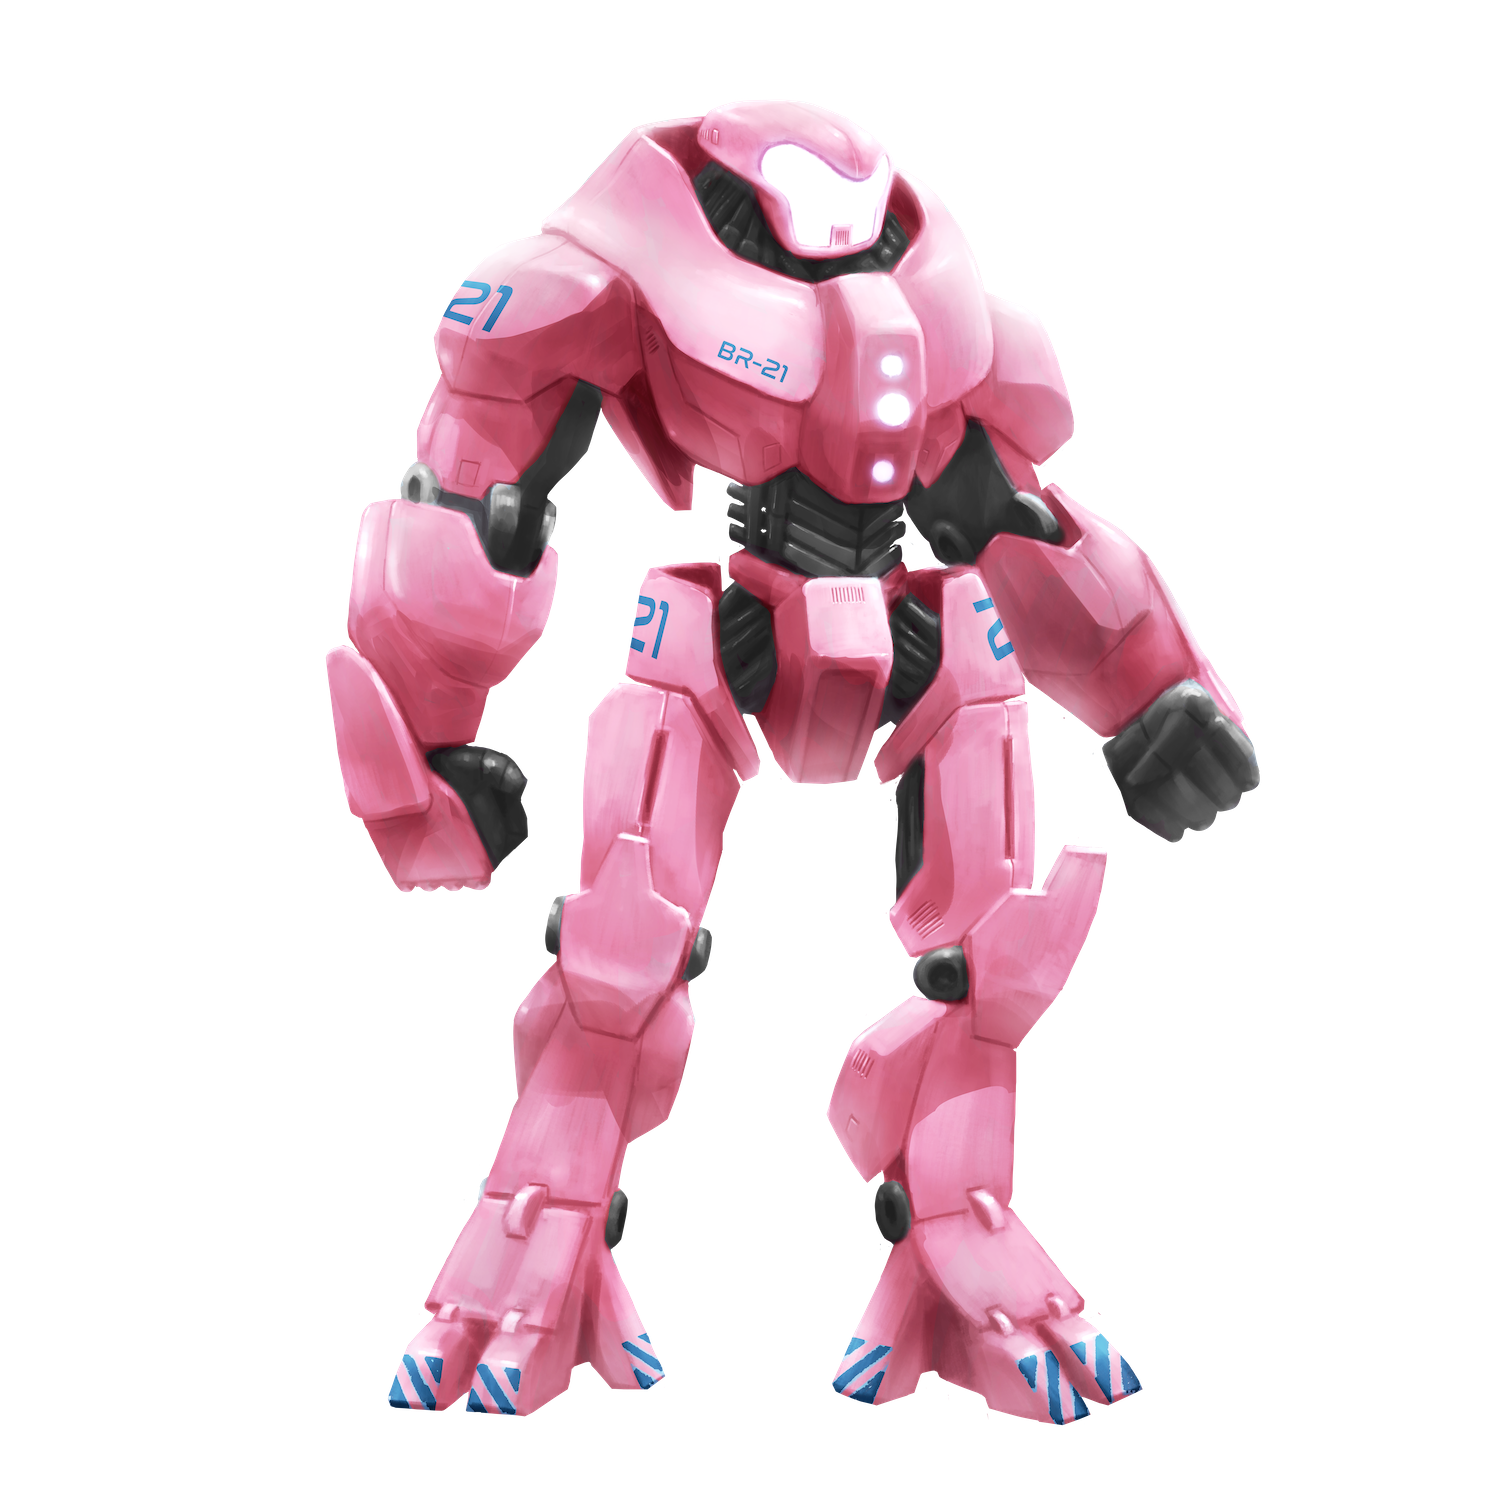
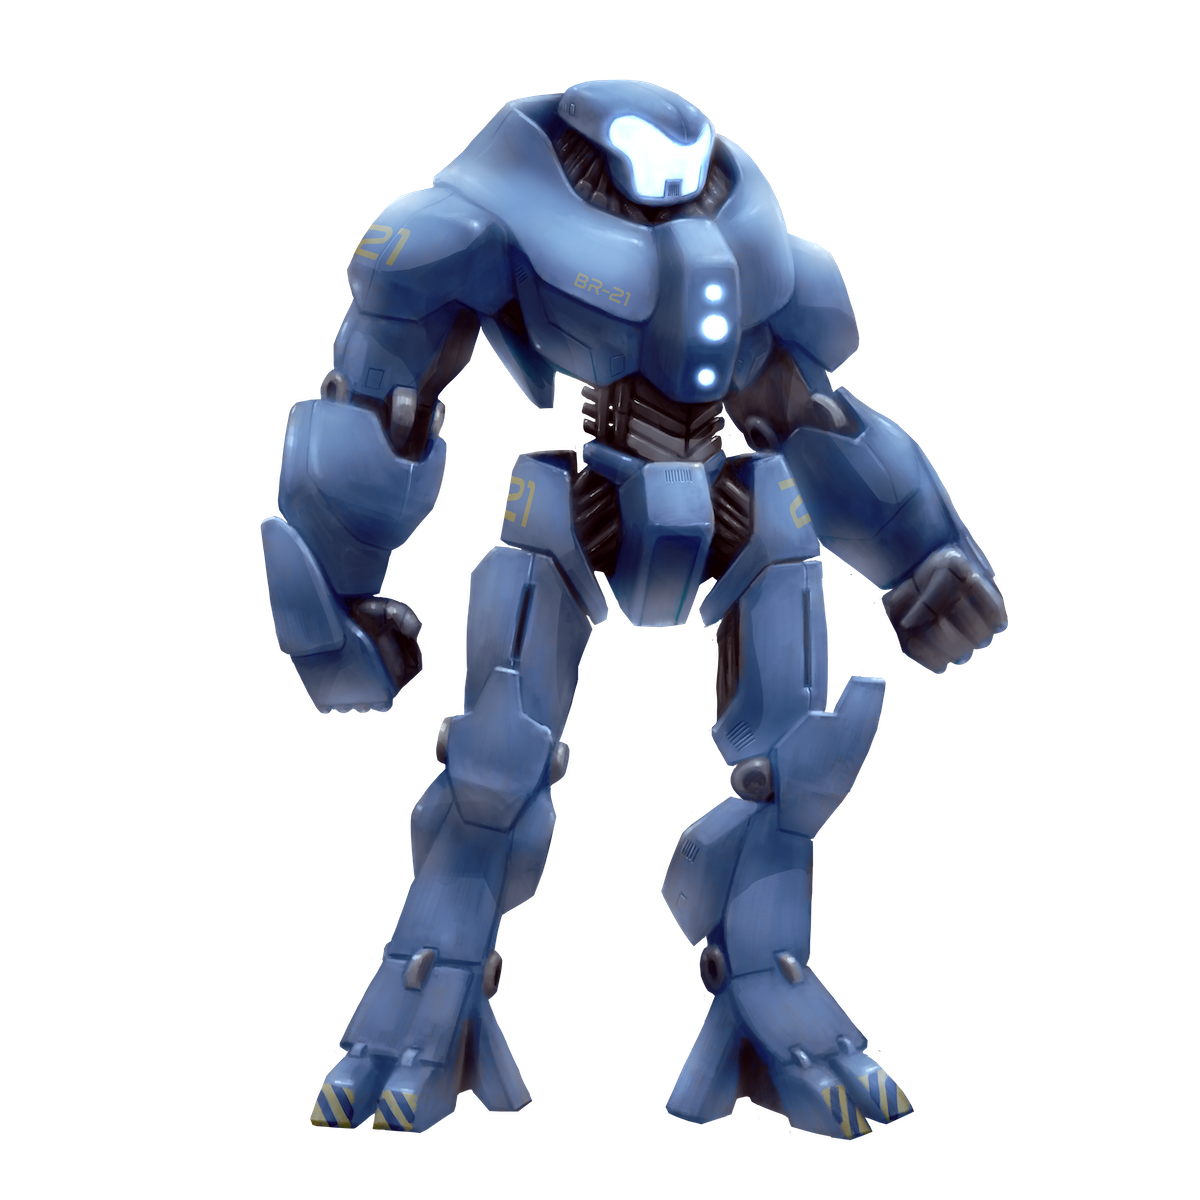
updates projeto final

Changed region(s): [[0.2158, 0.0617, 0.8325, 0.9558], [0.8017, 0.5242, 0.8325, 0.555]]

diff --git a/JavaScript_manipulando_o_DOM/projeto_curso/index.html b/JavaScript_manipulando_o_DOM/projeto_curso/index.html
@@ -16,33 +16,41 @@
 <body>
     <main>
         <section class="robotron">
+            <section class="botoes">
+                <button class="botao" data-cor="rosa" onclick="mudaCor('Rosa')">Rosa</button> 
+                <button class="botao" data-cor="azul" onclick="mudaCor('Azul')">Azul</button> 
+                <button class="botao" data-cor="vermelho" onclick="mudaCor('Vermelho')">Vermelho</button> 
+                <button class="botao" data-cor="branco" onclick="mudaCor('Branco')">Branco</button> 
+                <button class="botao" data-cor="preto" onclick="mudaCor('Preto')">Preto</button> 
+                <button class="botao" data-cor="amarelo" onclick="mudaCor('Amarelo')">Amarelo</button> 
+            </section>
             <img class="robo" src="img/robotron.png" alt="Robotron">
             <figcaption class="titulo">ROBOTRON <br>2000</figcaption>
         </section>
 
         <section class="box estatisticas">
             <div class="estatistica">
-                <p class="estatistica-titulo">Força</p>
+                <p class="estatistica-titulo" >Força</p>
                 <div class="estatistica-valor">
-                    <p class="estatistica-numero">768</p>
+                    <p class="estatistica-numero" data-estatistica="forca">768</p>
                 </div>
             </div>
             <div class="estatistica">
-                <p class="estatistica-titulo">Poder</p>
+                <p class="estatistica-titulo" >Poder</p>
                 <div class="estatistica-valor">
-                    <p class="estatistica-numero">630</p>
+                    <p class="estatistica-numero" data-estatistica="poder">630</p>
                 </div>
             </div>
             <div class="estatistica">
-                <p class="estatistica-titulo">Energia</p>
+                <p class="estatistica-titulo" >Energia</p>
                 <div class="estatistica-valor">
-                    <p class="estatistica-numero">289</p>
+                    <p class="estatistica-numero" data-estatistica="energia">289</p>
                 </div>
             </div>
             <div class="estatistica">
-                <p class="estatistica-titulo">Velocidade</p>
+                <p class="estatistica-titulo" >Velocidade</p>
                 <div class="estatistica-valor">
-                    <p class="estatistica-numero">597</p>
+                    <p class="estatistica-numero" data-estatistica="velocidade">597</p>
                 </div>
             </div>
         </section>
@@ -53,45 +61,45 @@
                     <div class="peca">
                         <label for="" class="peca-titulo">Braços</label>
                         <div class="controle">
-                            <buttom class="controle-ajuste" data-controle = "-">-</buttom>
+                            <buttom class="controle-ajuste" data-controle = "-" data-peca="bracos">-</buttom>
                             <input type="text" class="controle-contador" value="00" data-contador>
-                            <buttom class="controle-ajuste" data-controle = "+">+</buttom>
+                            <buttom class="controle-ajuste" data-controle = "+" data-peca="bracos">+</buttom>
                         </div>
                     </div>
                     <hr class="linha">
                     <div class="peca">
                         <label for="" class="peca-titulo">Blindagem</label>
                         <div class="controle">
-                            <buttom class="controle-ajuste" data-controle = "-">-</buttom>
+                            <buttom class="controle-ajuste" data-controle = "-" data-peca="blindagem">-</buttom>
                             <input type="text" class="controle-contador" value="00" data-contador>
-                            <buttom class="controle-ajuste" data-controle = "+">+</buttom>
+                            <buttom class="controle-ajuste" data-controle = "+" data-peca="blindagem">+</buttom>
                         </div>
                     </div>
                     <hr class="linha">
                     <div class="peca">
                         <label for="" class="peca-titulo">Núcleos</label>
                         <div class="controle">
-                            <buttom class="controle-ajuste" data-controle = "-">-</buttom>
+                            <buttom class="controle-ajuste" data-controle = "-" data-peca="nucleos">-</buttom>
                             <input type="text" class="controle-contador" value="00" data-contador>
-                            <buttom class="controle-ajuste" data-controle = "+">+</buttom>
+                            <buttom class="controle-ajuste" data-controle = "+" data-peca="nucleos">+</buttom>
                         </div>
                     </div>
                     <hr class="linha">
                     <div class="peca">
                         <label for="" class="peca-titulo">Pernas</label>
                         <div class="controle">
-                            <buttom class="controle-ajuste" data-controle = "-">-</buttom>
+                            <buttom class="controle-ajuste" data-controle = "-" data-peca="pernas">-</buttom>
                             <input type="text" class="controle-contador" value="00" data-contador>
-                            <buttom class="controle-ajuste" data-controle = "+">+</buttom>
+                            <buttom class="controle-ajuste" data-controle = "+" data-peca="pernas">+</buttom>
                         </div>
                     </div>
                     <hr class="linha">
                     <div class="peca">
                         <label for="" class="peca-titulo">Foguetes</label>
                         <div class="controle">
-                            <buttom class="controle-ajuste" data-controle = "-">-</buttom>
+                            <buttom class="controle-ajuste" data-controle = "-" data-peca="foguetes">-</buttom>
                             <input type="text" class="controle-contador" value="00" data-contador>
-                            <buttom class="controle-ajuste" data-controle = "+">+</buttom>
+                            <buttom class="controle-ajuste" data-controle = "+" data-peca="foguetes">+</buttom>
                         </div>
                     </div>
                 </div>

diff --git a/JavaScript_manipulando_o_DOM/projeto_curso/main.js b/JavaScript_manipulando_o_DOM/projeto_curso/main.js
@@ -1,27 +1,3 @@
-//funcao para alterar os dados do robo
-function manipulaDados(eventoclicado, classepai){
-    //constante que busca o atributo de dados presente na classe que é filha da classe contador
-    //o atributo de dados ajuda a no caso de um valor de uma classe mudar o código todo não irá ser perdido, como por exemplo na classe controle-ajuste, se decidissem mudar os simbolos de + e - para outra coisa a função criada seria perdida
-    const peca = classepai.querySelector("[data-contador]");
-    //if-else de soma e subtração usando como comparação o texto contido no evento que foi clicado
-    if (eventoclicado=== '-'){
-        peca.value = parseInt(peca.value) - 1;
-    } else{
-        peca.value = parseInt(peca.value) + 1;
-    }
-}
-
-//constante de lista com todos os itens do atributo de dados criado para armazenar o + e -
-const controle = document.querySelectorAll('[data-controle]');
-
-//funcão que percorre todos os itens da lista controle
-controle.forEach((elemento)=>{ 
-    //adiciona um evento a lista sempre que o elemento for clicado
-    elemento.addEventListener("click", (evento)=>{
-        //nova função que chama a função de manipular dados com o texto contido no data-controle do evento clicado(+ ou -) e a classe pai dessa classe(controle)
-        manipulaDados(evento.target.dataset.controle, evento.target.parentNode)
-    }) 
-});
 
 const pecas = {
     "bracos": {
@@ -56,3 +32,44 @@ const pecas = {
         "velocidade": -2
     }
 }
+//constante de lista com todos os itens do atributo de dados criado para armazenar o + e -
+const controle = document.querySelectorAll('[data-controle]');
+//constante que lista todas as estatisticas do robo
+const estatisticas = document.querySelectorAll('[data-estatistica]');
+const cor = document.querySelectorAll('[data-cor]')
+
+function mudaCor(cor){
+    document.querySelector(".robo").src="img/Robotron 2000 - " + cor + ".png";
+}
+
+//funcao para alterar os dados do robo
+function manipulaDados(eventoclicado, classepai){
+    //constante que busca o atributo de dados presente na classe que é filha da classe contador
+    //o atributo de dados ajuda a no caso de um valor de uma classe mudar o código todo não irá ser perdido, como por exemplo na classe controle-ajuste, se decidissem mudar os simbolos de + e - para outra coisa a função criada seria perdida
+    const peca = classepai.querySelector("[data-contador]");
+    //if-else de soma e subtração usando como comparação o texto contido no evento que foi clicado
+    if (eventoclicado=== '-'){
+        peca.value = parseInt(peca.value) - 1;
+    } else{
+        peca.value = parseInt(peca.value) + 1;
+    }
+}
+
+function atualizaEstatistica(peca){
+    estatisticas.forEach((elemento)=>{
+        console.log(elemento.dataset.estatistica);
+        console.log(elemento.textContent);
+        elemento.textContent= parseInt(elemento.textContent) + pecas[peca][elemento.dataset.estatistica];
+    })
+
+}
+
+//funcão que percorre todos os itens da lista controle
+controle.forEach((elemento)=>{ 
+    //adiciona um evento a lista sempre que o elemento for clicado
+    elemento.addEventListener("click", (evento)=>{
+        //nova função que chama a função de manipular dados com o texto contido no data-controle do evento clicado(+ ou -) e a classe pai dessa classe(controle)
+        manipulaDados(evento.target.dataset.controle, evento.target.parentNode)
+        atualizaEstatistica(evento.target.dataset.peca)
+    }) 
+});

diff --git a/JavaScript_manipulando_o_DOM/projeto_curso/css/style.css b/JavaScript_manipulando_o_DOM/projeto_curso/css/style.css
@@ -8,6 +8,28 @@
     box-sizing: border-box;
 }
 
+.botoes {
+    position: relative;
+    right: 0%;
+    left: 25%;
+    bottom: 15%;
+    display: flex;
+ }
+
+.botao{
+    color: white;
+    text-align: center;
+    font-weight: bold;
+    background-color:  rgba(0,0,0,0.6);
+    margin-left: 5px;
+    
+}
+
+.botao:hover{
+    background-color: white;
+    color: black;
+}
+
 body {
     background: url(../img/fundo.jpg);
     background-position: center center;
@@ -32,7 +54,7 @@ main {
 .robotron {
     background: url(../img/estrutura.png) no-repeat;
     background-position: center center;
-    margin: 0;
+    margin-top:50px;
     flex-basis: 40%;
     position: relative;
 }
@@ -55,7 +77,8 @@ main {
     line-height: 0.8;
     writing-mode: vertical-rl;
     text-orientation: mixed;
-    color: rgba(255, 255, 255, 0.8)
+    color: rgba(255, 255, 255, 0.8);
+    margin-top: 50px;
 }
 
 .box {
